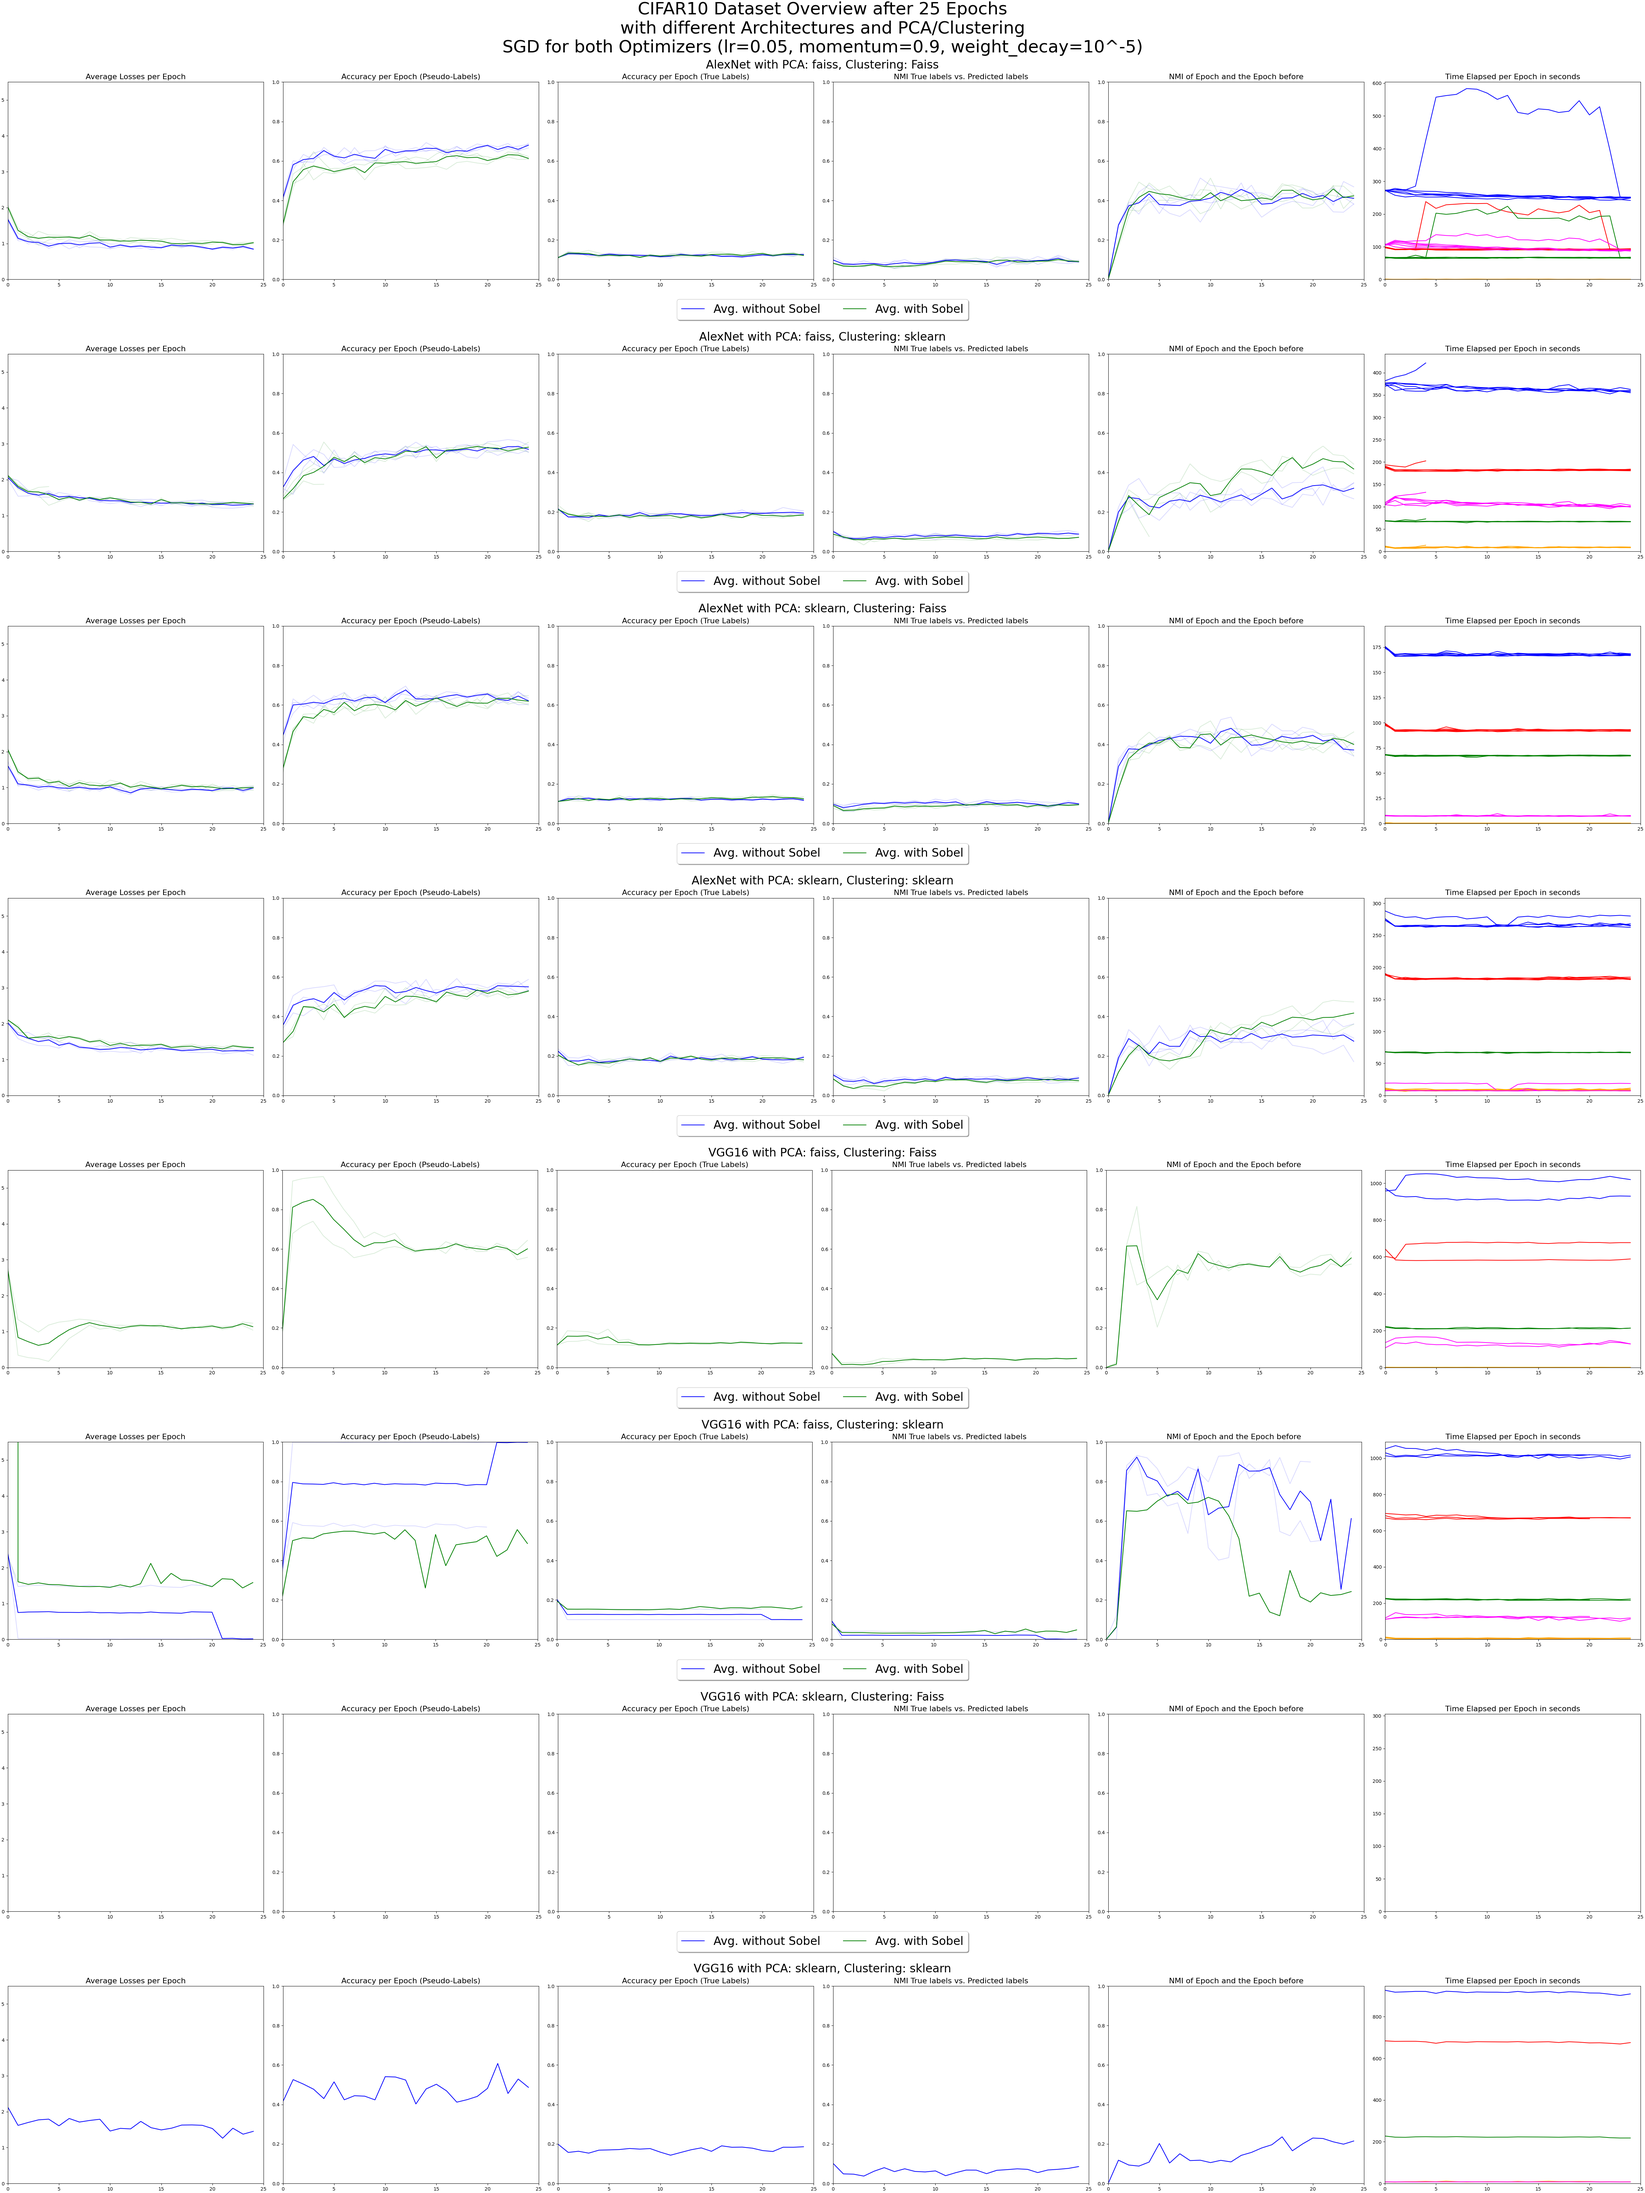
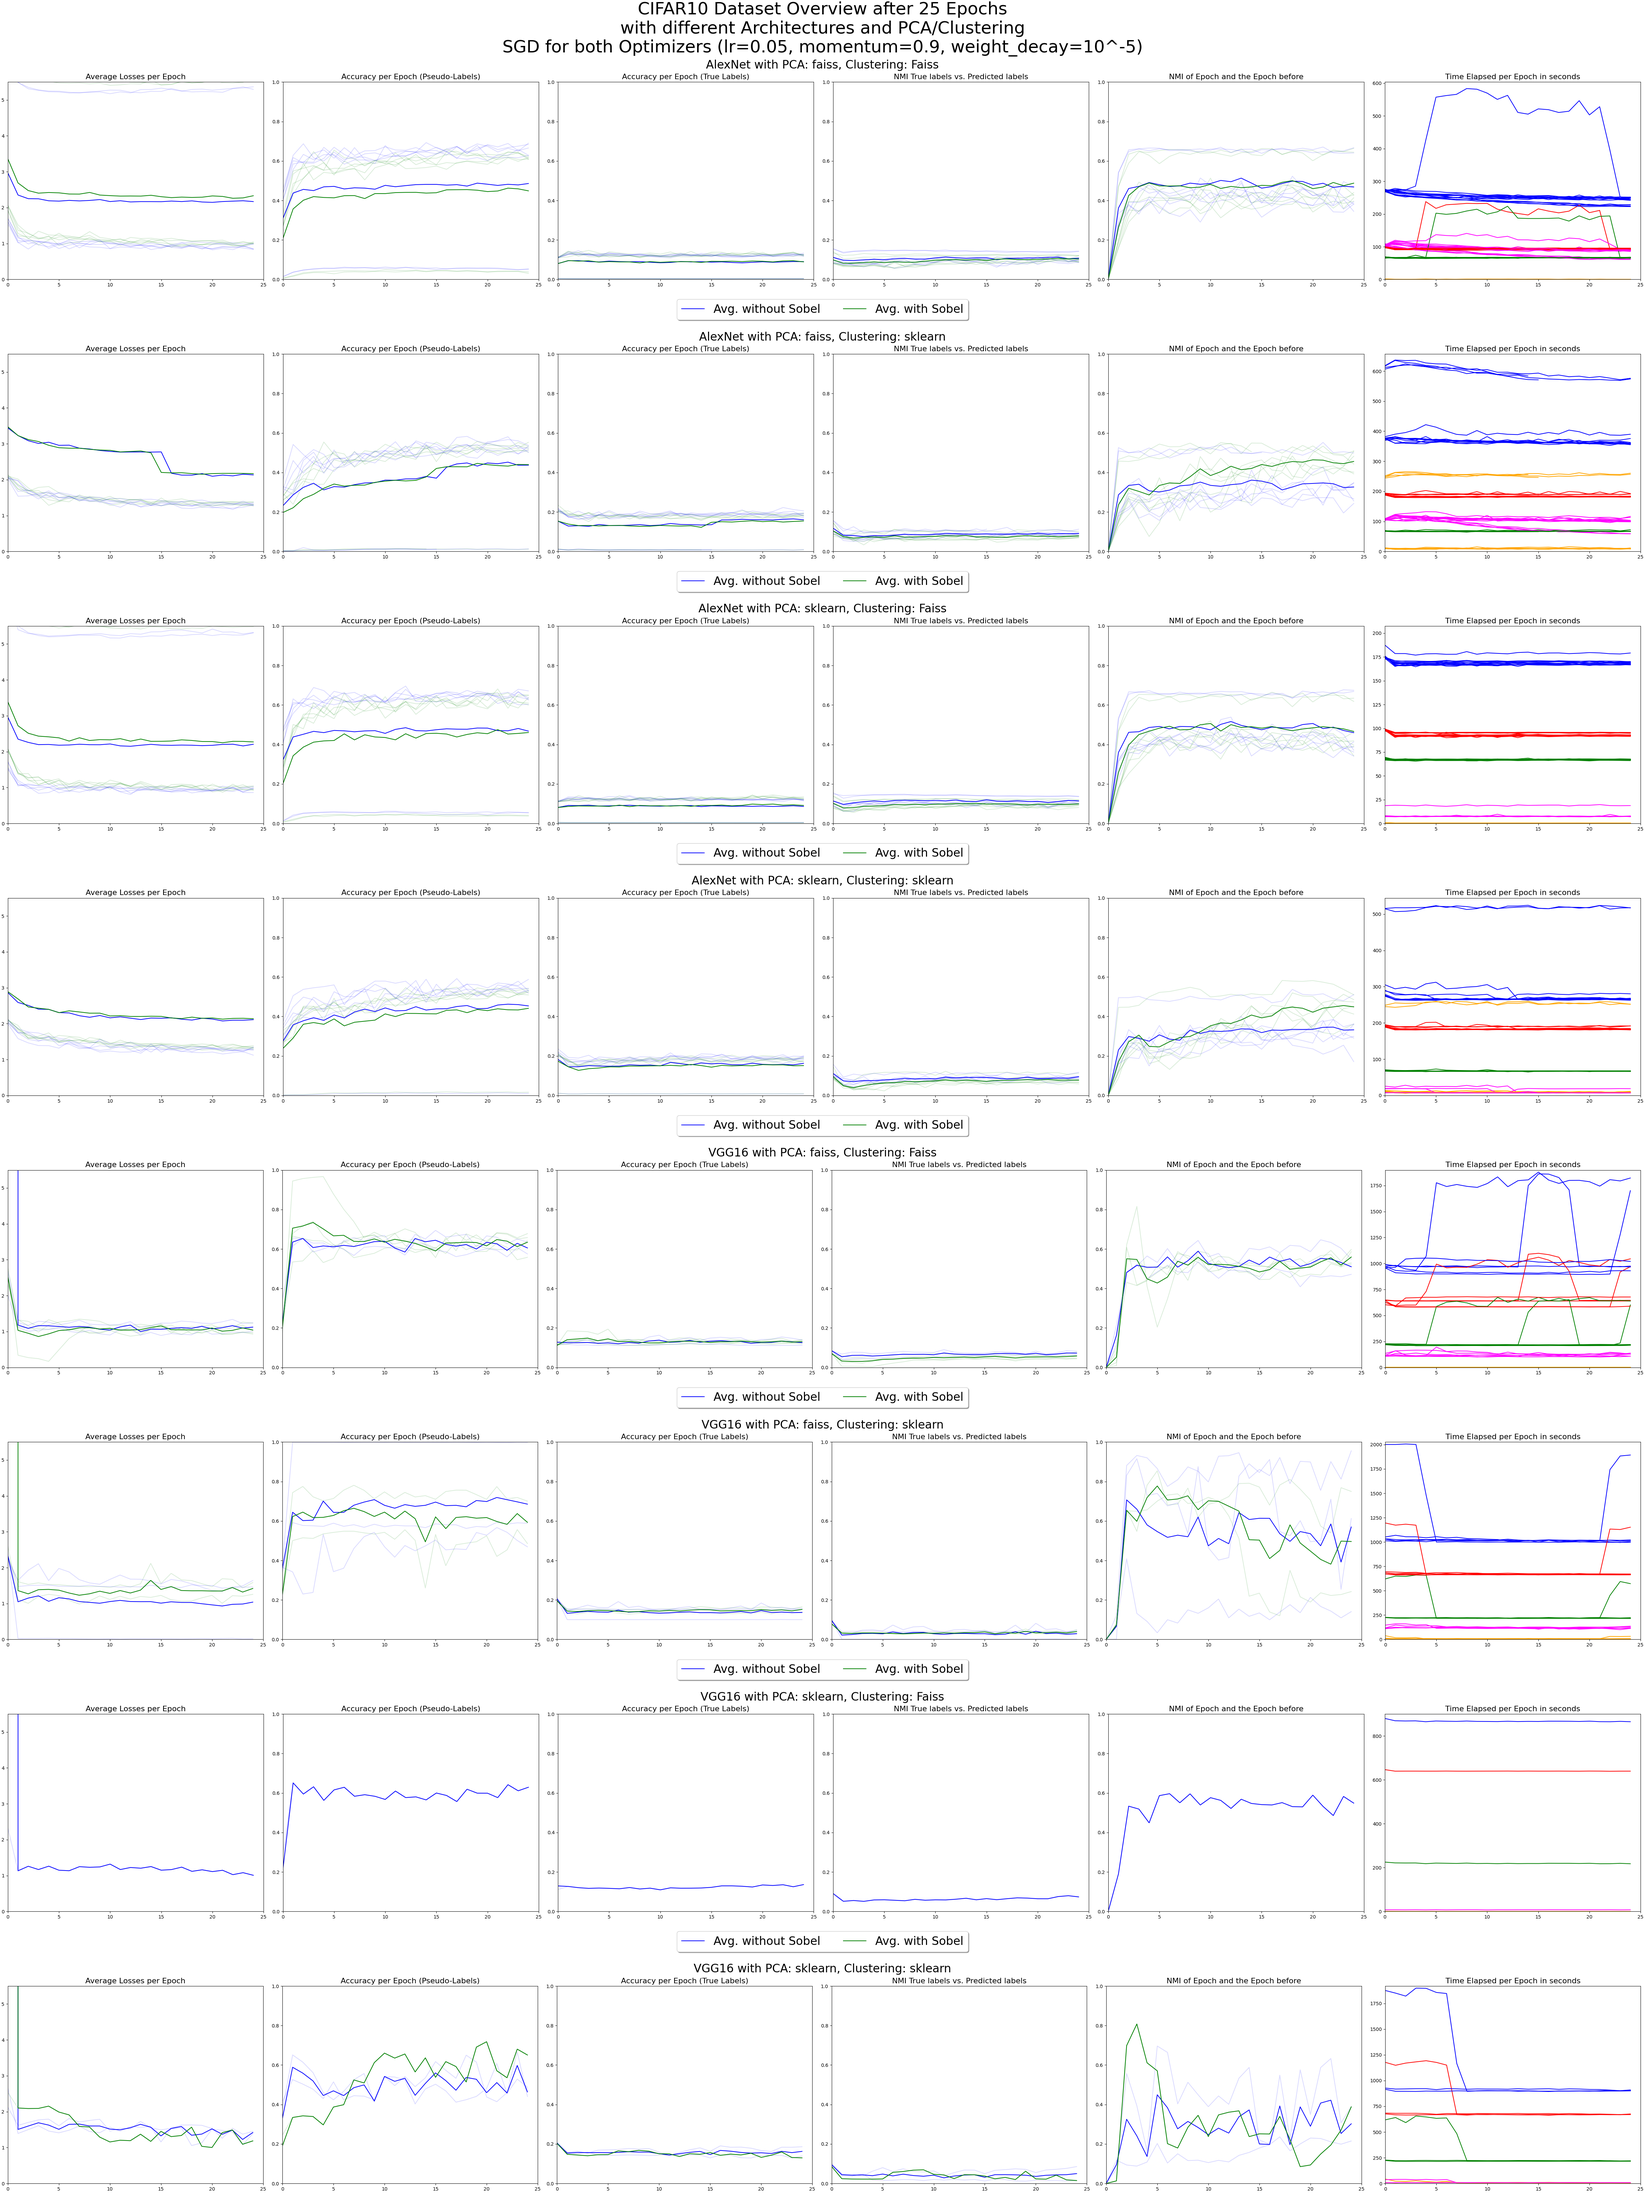
Updates to metrics

diff --git a/CIFAR10_results.md b/CIFAR10_results.md
@@ -17,26 +17,35 @@
 
 #### AlexNet
 **Without Sobel**:
-[//]: # (dacit)
 ```bash
 for i in {1..5}; do python3 main.py --arch AlexNet --input_dim 3 --num_classes 10 --epochs 25 --requires_grad --dataset CIFAR10 --ds_train --batch_size 128 --reassign_optimizer_tl --pca --pca_method faiss --pca_whitening --clustering faiss --metrics --metrics_dir ./metrics/CIFAR10/5_runs_100_epochs/ -v; python3 main.py --arch AlexNet --input_dim 3 --num_classes 10 --epochs 25 --requires_grad --dataset CIFAR10 --ds_train --batch_size 128 --reassign_optimizer_tl --pca --pca_method sklearn --pca_whitening --clustering faiss --metrics --metrics_dir ./metrics/CIFAR10/5_runs_100_epochs/ -v; python3 main.py --arch AlexNet --input_dim 3 --num_classes 10 --epochs 25 --requires_grad --dataset CIFAR10 --ds_train --batch_size 128 --reassign_optimizer_tl --pca --pca_method faiss --pca_whitening --clustering sklearn --metrics --metrics_dir ./metrics/CIFAR10/5_runs_100_epochs/ -v; python3 main.py --arch AlexNet --input_dim 3 --num_classes 10 --epochs 25 --requires_grad --dataset CIFAR10 --ds_train --batch_size 128 --reassign_optimizer_tl --pca --pca_method sklearn --pca_whitening --clustering sklearn --metrics --metrics_dir ./metrics/CIFAR10/5_runs_100_epochs/ -v; done
 ```
 
 **With Sobel**:
-[//]: # (biolithe)
 ```bash
 for i in {1..5}; do python3 main.py --arch AlexNet --input_dim 2 --grayscale --sobel --num_classes 10 --epochs 25 --requires_grad --dataset CIFAR10 --ds_train --batch_size 128 --reassign_optimizer_tl --pca --pca_method faiss --pca_whitening --clustering faiss --metrics --metrics_dir ./metrics/CIFAR10/5_runs_100_epochs/ -v; python3 main.py --arch AlexNet --input_dim 2 --grayscale --sobel --num_classes 10 --epochs 25 --requires_grad --dataset CIFAR10 --ds_train --batch_size 128 --reassign_optimizer_tl --pca --pca_method sklearn --pca_whitening --clustering faiss --metrics --metrics_dir ./metrics/CIFAR10/5_runs_100_epochs/ -v; python3 main.py --arch AlexNet --input_dim 2 --grayscale --sobel --num_classes 10 --epochs 25 --requires_grad --dataset CIFAR10 --ds_train --batch_size 128 --reassign_optimizer_tl --pca --pca_method faiss --pca_whitening --clustering sklearn --metrics --metrics_dir ./metrics/CIFAR10/5_runs_100_epochs/ -v; python3 main.py --arch AlexNet --input_dim 2 --grayscale --sobel --num_classes 10 --epochs 25 --requires_grad --dataset CIFAR10 --ds_train --batch_size 128 --reassign_optimizer_tl --pca --pca_method sklearn --pca_whitening --clustering sklearn --metrics --metrics_dir ./metrics/CIFAR10/5_runs_100_epochs/ -v; done
 ```
 
 #### VGG16
 **Without Sobel**:
-[//]: # (cipollino)
 ```bash
 for i in {1..5}; do python3 main.py --arch VGG16 --input_dim 3 --num_classes 10 --epochs 25 --requires_grad --dataset CIFAR10 --ds_train --batch_size 32 --reassign_optimizer_tl --pca --pca_method faiss --pca_whitening --clustering faiss --metrics --metrics_dir ./metrics/CIFAR10/5_runs_100_epochs/ -v; python3 main.py --arch VGG16 --input_dim 3 --num_classes 10 --epochs 25 --requires_grad --dataset CIFAR10 --ds_train --batch_size 32 --reassign_optimizer_tl --pca --pca_method sklearn --pca_whitening --clustering faiss --metrics --metrics_dir ./metrics/CIFAR10/5_runs_100_epochs/ -v; python3 main.py --arch VGG16 --input_dim 3 --num_classes 10 --epochs 25 --requires_grad --dataset CIFAR10 --ds_train --batch_size 32 --reassign_optimizer_tl --pca --pca_method faiss --pca_whitening --clustering sklearn --metrics --metrics_dir ./metrics/CIFAR10/5_runs_100_epochs/ -v; python3 main.py --arch VGG16 --input_dim 3 --num_classes 10 --epochs 25 --requires_grad --dataset CIFAR10 --ds_train --batch_size 32 --reassign_optimizer_tl --pca --pca_method sklearn --pca_whitening --clustering sklearn --metrics --metrics_dir ./metrics/CIFAR10/5_runs_100_epochs/ -v; done
 ```
 
 **With Sobel**:
-[//]: # (eklogit)
 ```bash
 for i in {1..5}; do python3 main.py --arch VGG16 --input_dim 2 --grayscale --sobel --num_classes 10 --epochs 25 --requires_grad --dataset CIFAR10 --ds_train --batch_size 32 --reassign_optimizer_tl --pca --pca_method faiss --pca_whitening --clustering faiss --metrics --metrics_dir ./metrics/CIFAR10/5_runs_100_epochs/ -v; python3 main.py --arch VGG16 --input_dim 2 --grayscale --sobel --num_classes 10 --epochs 25 --requires_grad --dataset CIFAR10 --ds_train --batch_size 32 --reassign_optimizer_tl --pca --pca_method sklearn --pca_whitening --clustering faiss --metrics --metrics_dir ./metrics/CIFAR10/5_runs_100_epochs/ -v; python3 main.py --arch VGG16 --input_dim 2 --grayscale --sobel --num_classes 10 --epochs 25 --requires_grad --dataset CIFAR10 --ds_train --batch_size 32 --reassign_optimizer_tl --pca --pca_method faiss --pca_whitening --clustering sklearn --metrics --metrics_dir ./metrics/CIFAR10/5_runs_100_epochs/ -v; python3 main.py --arch VGG16 --input_dim 2 --grayscale --sobel --num_classes 10 --epochs 25 --requires_grad --dataset CIFAR10 --ds_train --batch_size 32 --reassign_optimizer_tl --pca --pca_method sklearn --pca_whitening --clustering sklearn --metrics --metrics_dir ./metrics/CIFAR10/5_runs_100_epochs/ -v; done
+```
+---
+
+#### AlexNet (Adjusted Learning Rate (0.1), Weight Decay (0.001), num_clusters (1000), batch size (64))
+**Without Sobel**:
+[//]: # (eklogit)
+```bash
+for i in {1..3}; do python3 main.py --arch AlexNet --input_dim 3 --num_classes 1000 --epochs 25 --requires_grad --dataset CIFAR10 --ds_train --batch_size 64 --reassign_optimizer_tl --pca --pca_method faiss --pca_whitening --clustering faiss --metrics --metrics_dir ./metrics/CIFAR10/5_runs_100_epochs/ -v --lr 0.1 --weight_decay 0.001 --lr_tl 0.1 --weight_decay_tl 0.001 ; python3 main.py --arch AlexNet --input_dim 3 --num_classes 1000 --epochs 25 --requires_grad --dataset CIFAR10 --ds_train --batch_size 64 --reassign_optimizer_tl --pca --pca_method sklearn --pca_whitening --clustering faiss --metrics --metrics_dir ./metrics/CIFAR10/5_runs_100_epochs/ -v --lr 0.1 --weight_decay 0.001 --lr_tl 0.1 --weight_decay_tl 0.001 ; python3 main.py --arch AlexNet --input_dim 3 --num_classes 1000 --epochs 25 --requires_grad --dataset CIFAR10 --ds_train --batch_size 64 --reassign_optimizer_tl --pca --pca_method faiss --pca_whitening --clustering sklearn --metrics --metrics_dir ./metrics/CIFAR10/5_runs_100_epochs/ -v --lr 0.1 --weight_decay 0.001 --lr_tl 0.1 --weight_decay_tl 0.001 ; python3 main.py --arch AlexNet --input_dim 3 --num_classes 1000 --epochs 25 --requires_grad --dataset CIFAR10 --ds_train --batch_size 64 --reassign_optimizer_tl --pca --pca_method sklearn --pca_whitening --clustering sklearn --metrics --metrics_dir ./metrics/CIFAR10/5_runs_100_epochs/ -v --lr 0.1 --weight_decay 0.001 --lr_tl 0.1 --weight_decay_tl 0.001 ; done
+```
+
+**With Sobel**:
+```bash
+for i in {1..3}; do python3 main.py --arch AlexNet --input_dim 2 --grayscale --sobel --num_classes 1000 --epochs 25 --requires_grad --dataset CIFAR10 --ds_train --batch_size 64 --reassign_optimizer_tl --pca --pca_method faiss --pca_whitening --clustering faiss --metrics --metrics_dir ./metrics/CIFAR10/5_runs_100_epochs/ -v --lr 0.1 --weight_decay 0.001 --lr_tl 0.1 --weight_decay_tl 0.001 ; python3 main.py --arch AlexNet --input_dim 2 --grayscale --sobel --num_classes 1000 --epochs 25 --requires_grad --dataset CIFAR10 --ds_train --batch_size 64 --reassign_optimizer_tl --pca --pca_method sklearn --pca_whitening --clustering faiss --metrics --metrics_dir ./metrics/CIFAR10/5_runs_100_epochs/ -v --lr 0.1 --weight_decay 0.001 --lr_tl 0.1 --weight_decay_tl 0.001 ; python3 main.py --arch AlexNet --input_dim 2 --grayscale --sobel --num_classes 1000 --epochs 25 --requires_grad --dataset CIFAR10 --ds_train --batch_size 64 --reassign_optimizer_tl --pca --pca_method faiss --pca_whitening --clustering sklearn --metrics --metrics_dir ./metrics/CIFAR10/5_runs_100_epochs/ -v --lr 0.1 --weight_decay 0.001 --lr_tl 0.1 --weight_decay_tl 0.001 ; python3 main.py --arch AlexNet --input_dim 2 --grayscale --sobel --num_classes 1000 --epochs 25 --requires_grad --dataset CIFAR10 --ds_train --batch_size 64 --reassign_optimizer_tl --pca --pca_method sklearn --pca_whitening --clustering sklearn --metrics --metrics_dir ./metrics/CIFAR10/5_runs_100_epochs/ -v --lr 0.1 --weight_decay 0.001 --lr_tl 0.1 --weight_decay_tl 0.001 ; done
 ```
